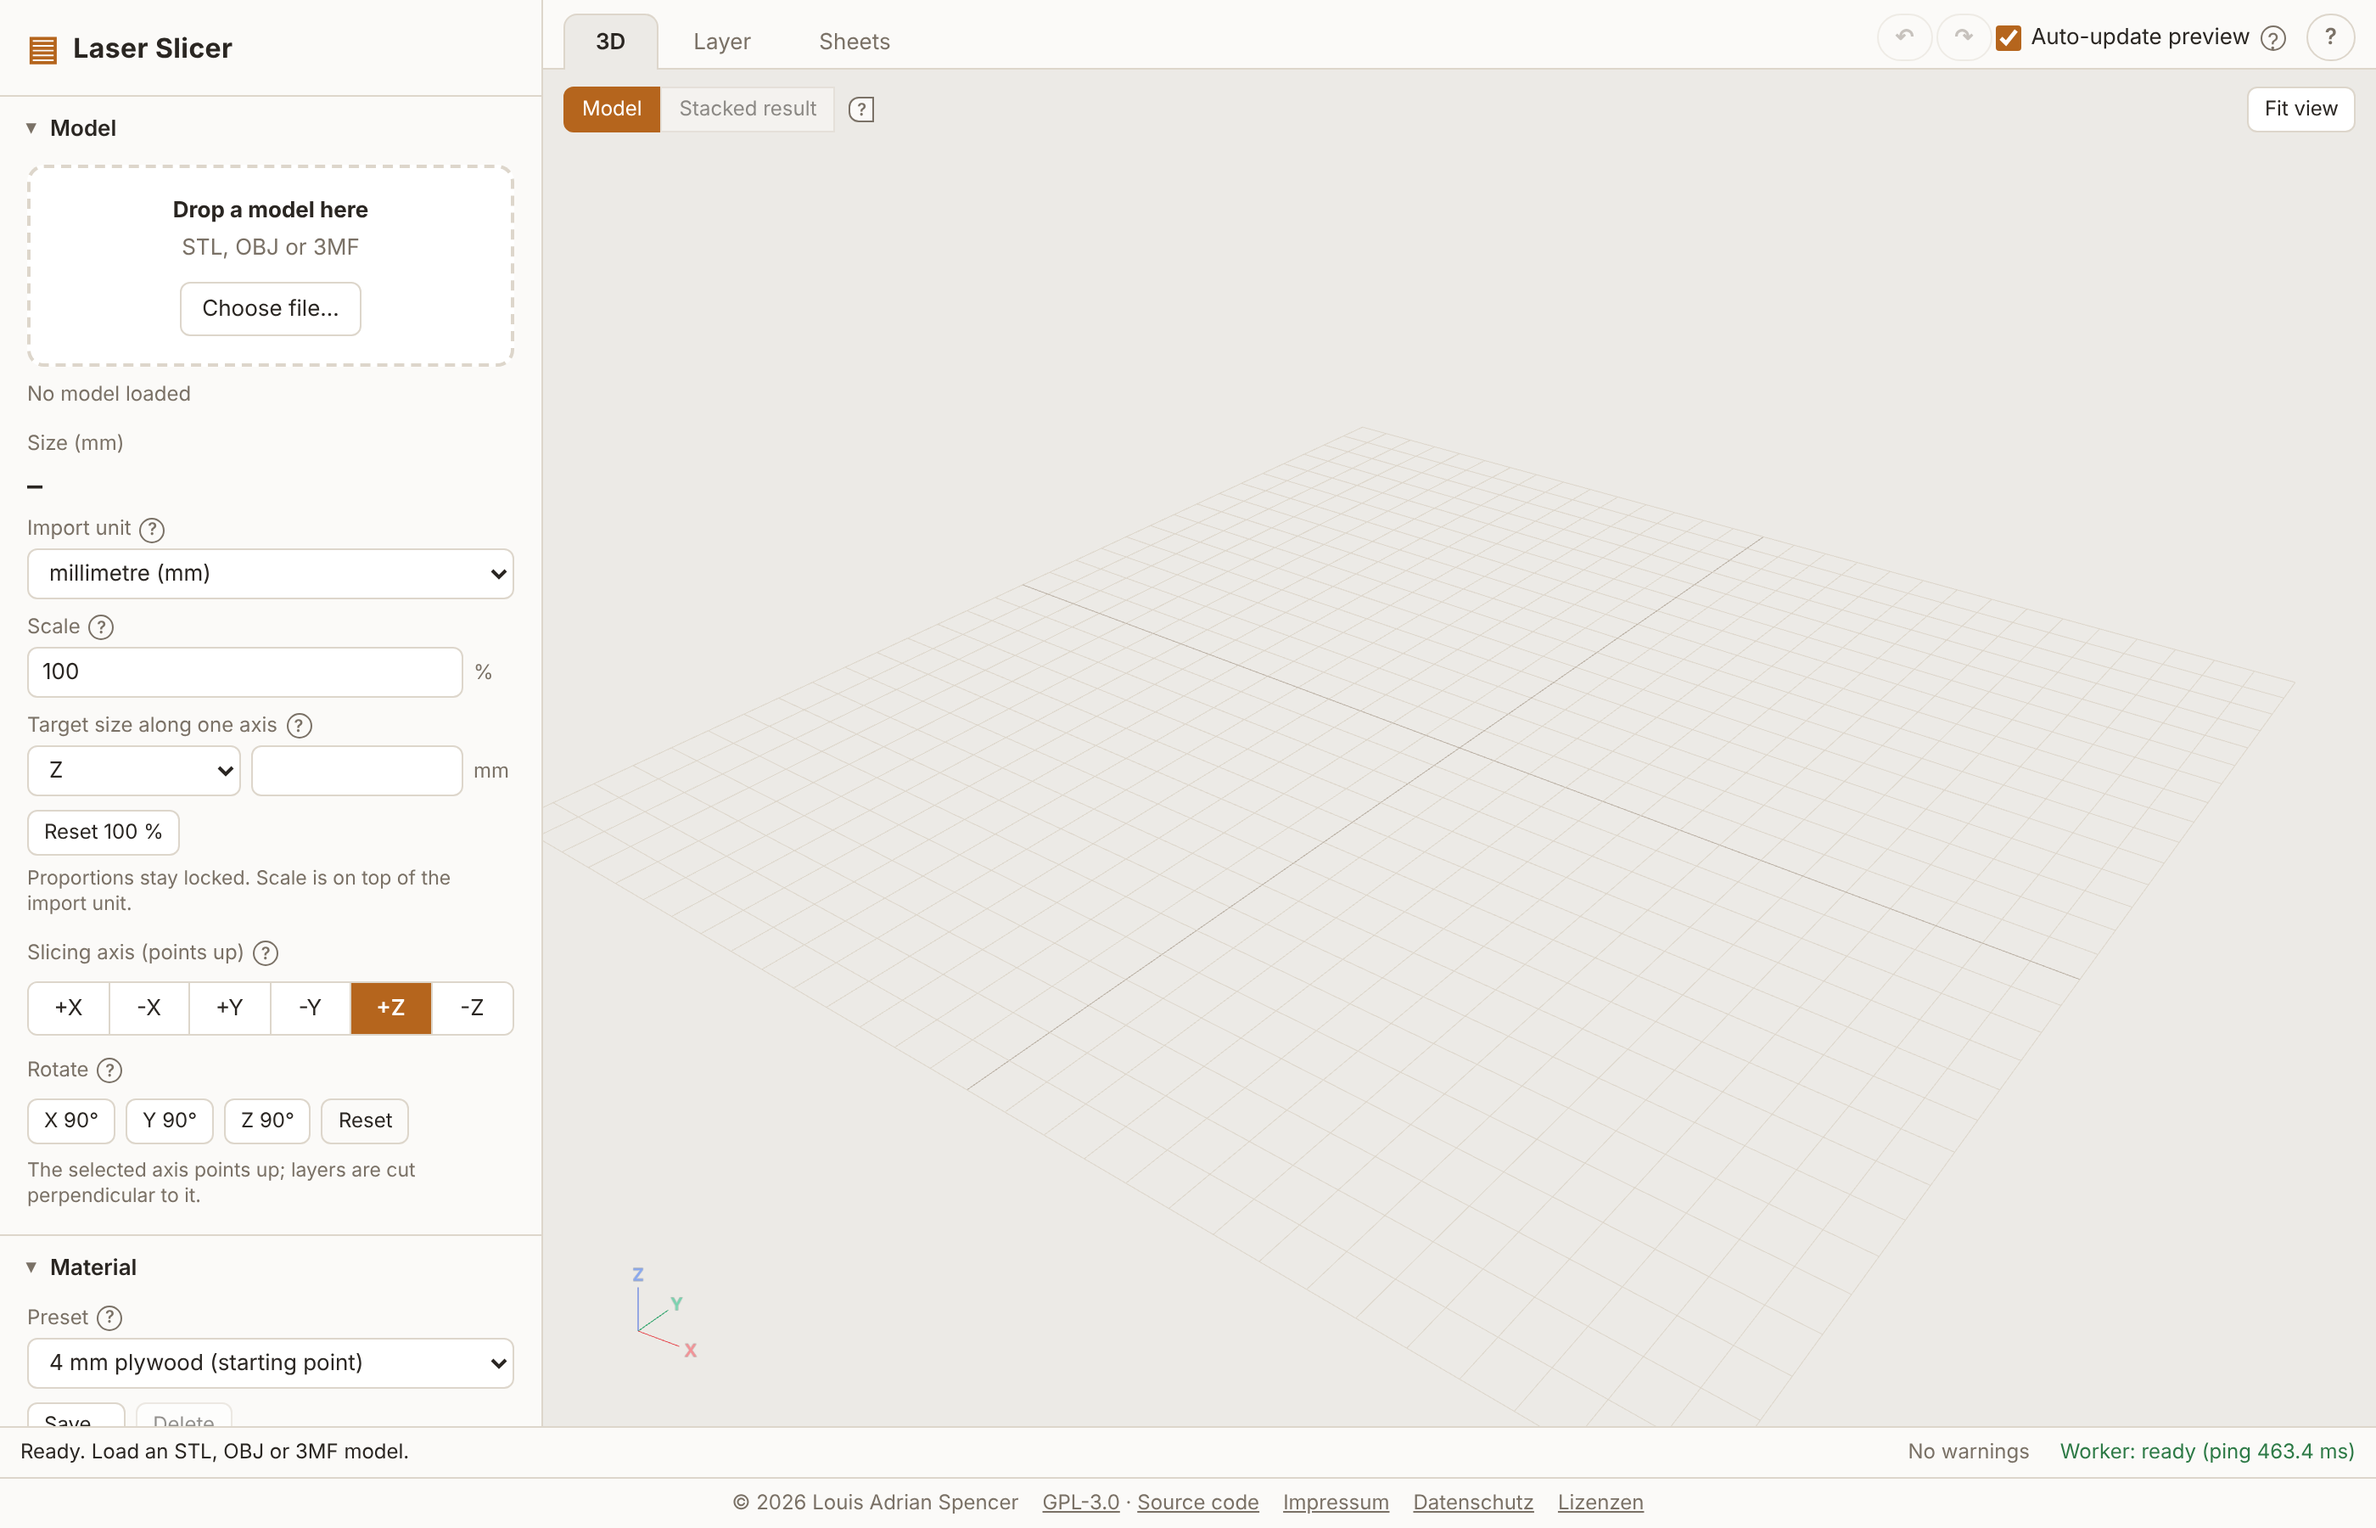
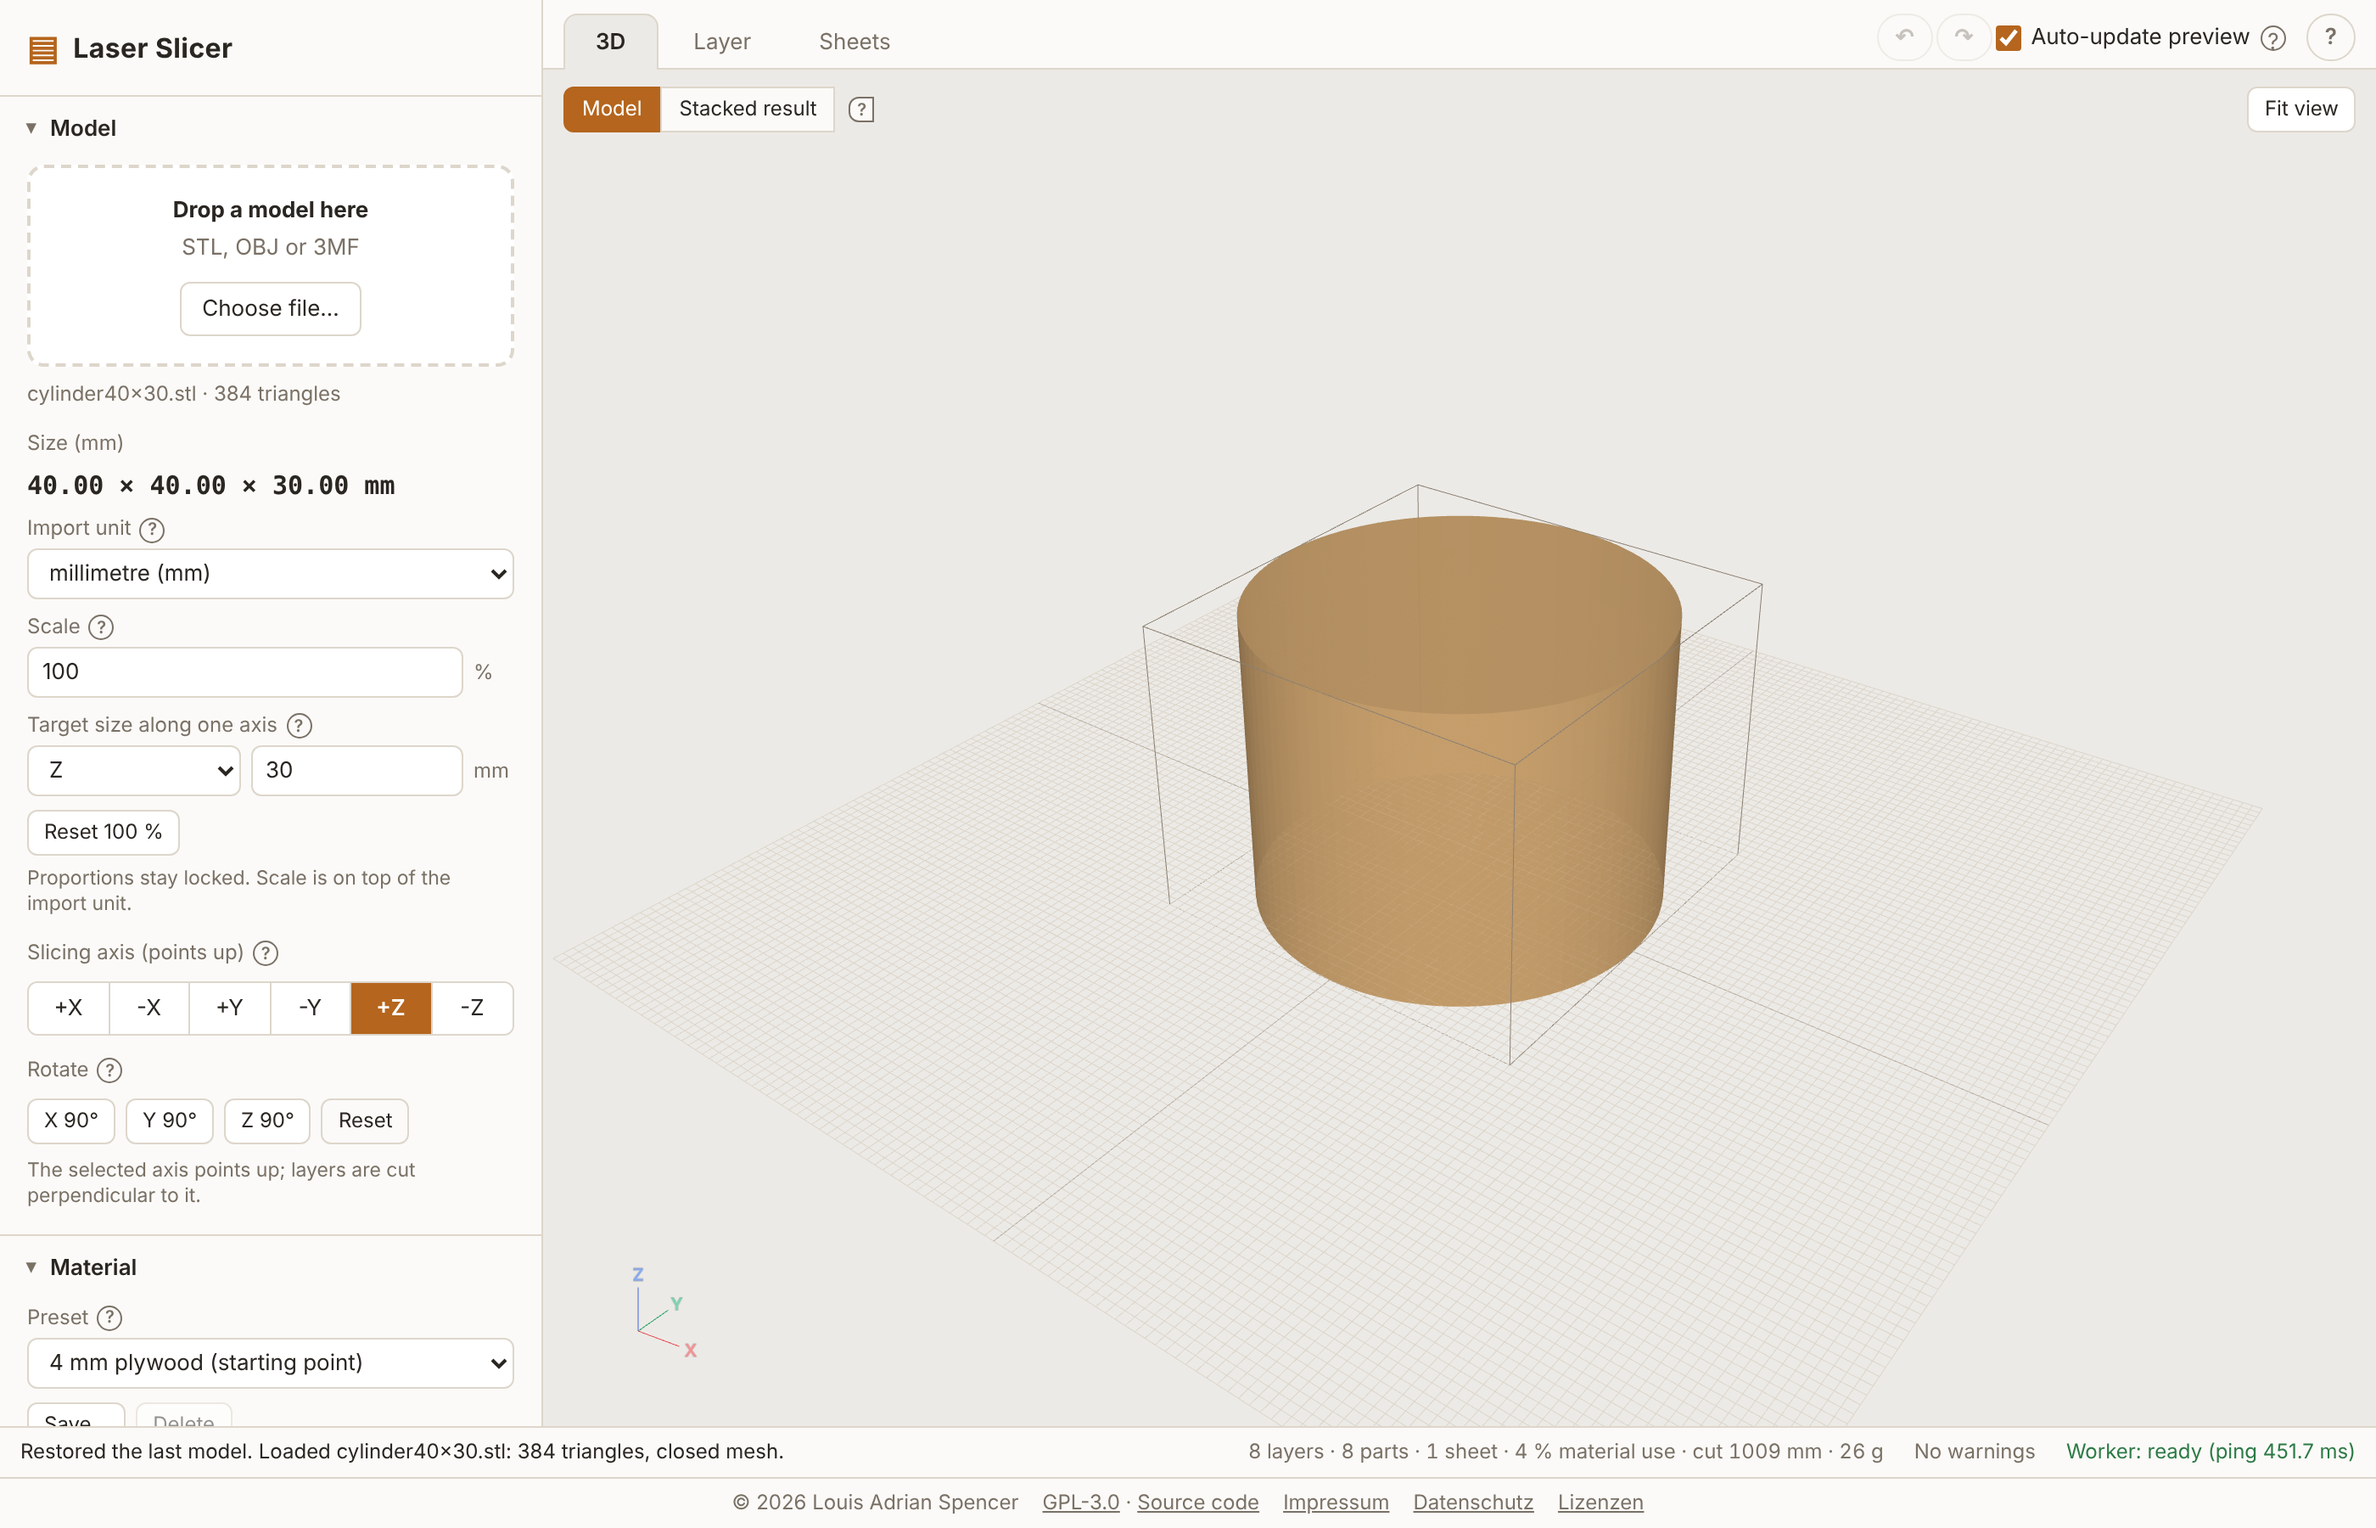
Browser test protocol: results of T13-T15, T20 (work in progress)
Claude-Session: https://claude.ai/code/session_017Scz43f7zpLviQc6tjReGF

diff --git a/docs/test-protocol/results/T20.md b/docs/test-protocol/results/T20.md
@@ -1,0 +1,16 @@
+## T20 — Legal pages + network
+**Verdict:** PASS
+**Model:** cube20.stl (for the app session)   **Settings:** defaults; `dist/` served by a small Node http server on 127.0.0.1
+**Steps:**
+1. Opened the app over http, loaded the cube, visited 3D / Layer / Sheets tabs, read the footer, clicked Impressum, Datenschutz and Lizenzen (each opens a new tab). The context recorded every request (`context.on('request')`).
+2. Opened the three legal pages in an iPhone 13 context (390 x 664 CSS px) with `javaScriptEnabled: false`; measured horizontal overflow.
+3. Repeated the overflow check in a plain 390 px wide Chromium window with JS.
+**Expected:** footer with © 2026 Louis Adrian Spencer, GPL-3.0, Source code, Impressum, Datenschutz, Lizenzen; pages render without JS, no horizontal scroll at 390 px; zero third-party requests.
+**Actual:**
+- Footer text: `© 2026 Louis Adrian Spencer | GPL-3.0 · Source code | Impressum | Datenschutz | Lizenzen`. Hrefs: GPL-3.0 -> lizenzen.html, Source code -> https://github.com/DrKlenkk/LaserSlicer (new tab, noopener), the three legal pages as relative links with target `_blank`. The footer is visible below the status bar, also with a model loaded.
+- Each page opens and has content: Impressum (292 chars of text, provider and contact), Datenschutzerklärung (7474 chars), Lizenzen (2020 chars).
+- No-JS iPhone: all three pages render (h1 and text present), `scrollWidth` = `innerWidth` = 390, no element extends past the viewport. Same at 390 px with JS.
+- Requests during the whole app session: 5, all same-origin: `index.html`, one `blob:` (the Web Worker) and the three legal pages. Zero third-party requests (the file has no CDN, font, analytics or favicon request). The no-JS session requested only the three pages.
+**Evidence:** [request log](../T20/requests.txt), ![Footer](../T20/app_footer.png), ![Impressum phone no-JS](../T20/impressum_iphone_nojs.png), ![Datenschutz](../T20/datenschutz_iphone_nojs.png), ![Lizenzen](../T20/lizenzen_iphone_nojs.png)
+**Console:** no errors; 4 "GPU stall" notices (noise).
+**Notes / deviations:** the main app itself at a 390 px viewport has a horizontal scroll width of 544 px (page `scrollWidth` 544 > 390). The plan only requires the legal pages to fit at 390 px, so this is not counted against T20, but the app is not phone-friendly. The privacy text mentions Cloudflare (a link inside the text, not a request made by the app). The ZIP export was not repeated in the network recording; the app code showed no network use on that path and the recorded session shows nothing but its own files.

diff --git a/docs/test-protocol/results/T15.md b/docs/test-protocol/results/T15.md
@@ -1,0 +1,29 @@
+## T15 — Undo/redo + presets
+**Verdict:** PASS
+**Model:** cube20.stl   **Settings:** kerf and thickness edits, user preset "MyPly" (thickness 3.2, kerf 0.18, spacing 2, price 9)
+**Steps:**
+1. Loaded the cube. Set kerf 0.2, kerf 0.3, thickness 3.5 (each edit separated by more than 1.3 s). Ctrl+Z twice, Ctrl+Y, Ctrl+Shift+Z, then the undo button three times and the redo button three times.
+2. Set my values, clicked "Save…" (prompt answered "MyPly"), changed kerf 0.1 / thickness 6 / price 20, picked "MyPly" in the list, pressed the undo button once, redo once.
+3. Applied a starter preset ("3 mm plywood") and Ctrl+Z.
+4. Reloaded the page, checked the list and settings, changed kerf, applied "MyPly" again.
+**Expected:** each change one undo step; preset applies Material values in one step; preset survives a reload.
+**Actual:**
+| Action | kerf / thickness |
+|---|---|
+| start | 0.15 / 4 (undo and redo buttons disabled) |
+| after edits | 0.3 / 3.5 |
+| Ctrl+Z | 0.3 / 4 (thickness step only) |
+| Ctrl+Z | 0.2 / 4 |
+| Ctrl+Y | 0.3 / 4 |
+| Ctrl+Shift+Z | 0.3 / 3.5, redo button disabled |
+| undo button x3 | 0.3/4, 0.2/4, 0.15/4 (undo disabled at the start state) |
+| redo button x3 | 0.2/4, then 0.3/3.5 |
+| apply "MyPly" | thickness 3.2, kerf 0.18, spacing 2, price 9 in one step; note: `Applied "MyPly".` |
+| one undo | kerf 0.1, thickness 6, price 20 (all three restored at once) |
+| one redo | all preset values again, list shows MyPly |
+| starter preset + Ctrl+Z | values exactly as before |
+| after reload | list holds the 3 starting points + "MyPly"; current settings kept; applying MyPly after changing kerf to 0.05 restores kerf 0.18 / thickness 3.2 |
+Save note: `Saved the preset "MyPly".` The preset list selection follows the current values (empty when no preset matches).
+**Evidence:** ![Panel with preset](../T15/panel_preset.png)
+**Console:** no errors; one expected `prompt` dialog (name for the preset); 4 "GPU stall" notices (noise).
+**Notes / deviations:** edits to the same setting less than 1 s apart merge into one undo step (documented in `src/history.ts` as a design rule; in my first harness run, kerf 0.2 then 0.3 within a second undid in one step, 0.3 straight to 0.15). With normal pacing each change is its own step. The default cut and engrave speeds are 0, so the preset test did not vary them.

diff --git a/docs/test-protocol/results/T14.md b/docs/test-protocol/results/T14.md
@@ -1,0 +1,22 @@
+## T14 — Session restore (opt-in)
+**Verdict:** PASS
+**Model:** cylinder40x30.stl   **Settings:** defaults; "Restore the last model when the page opens" off, then on
+**Steps:** (one persistent Chromium profile, `launchPersistentContext`)
+1. Opened the app: checkbox is unticked. Loaded the cylinder (8 layers, 8 parts, 1 sheet). Looked at IndexedDB (`indexedDB.databases()`), reloaded, looked again.
+2. Ticked the checkbox, loaded the cylinder again, checked IndexedDB, reloaded.
+3. Closed the whole browser, opened a new one on the same profile, opened the app.
+4. Unticked the checkbox, checked IndexedDB, reloaded.
+**Expected:** off: nothing restored, no IndexedDB record; on: model comes back after reload with a status note.
+**Actual:**
+| Moment | Observation |
+|---|---|
+| Default | checkbox off |
+| Off, model loaded | `indexedDB.databases()` = `[]` (no `laserslicer.session` database at all) |
+| Off, after reload | status "Ready. Load an STL, OBJ or 3MF model.", no model, no summary, still no database |
+| On, model loaded | database `laserslicer.session` with 1 record in store `session` |
+| On, after reload | status "Restored the last model. Loaded cylinder40x30.stl: 384 triangles, closed mesh."; summary "8 layers · 8 parts · 1 sheet · 4 % material use · cut 1009 mm · 26 g"; checkbox still on |
+| On, after full browser restart | same restore and status |
+| Switched off again | record count 0; after reload: nothing restored, checkbox off |
+**Evidence:** ![Off after reload](../T14/off_after_reload.png), ![On after reload](../T14/on_after_reload.png)
+**Console:** no errors; 8 "GPU stall" notices (noise).
+**Notes / deviations:** my first run showed no restore, but that was caused by my own probe: it called `indexedDB.open('laserslicer.session')` on a database that did not exist yet, which created it empty (no object store) and so blocked the app's own creation. The probe was changed to check `indexedDB.databases()` first and the run above is the valid one. Not an app defect (a test artefact only).

diff --git a/docs/test-protocol/results/T13.md b/docs/test-protocol/results/T13.md
@@ -1,0 +1,22 @@
+## T13 — Project file with model
+**Verdict:** PASS
+**Model:** cube20.stl   **Settings:** kerf 0.25 (else defaults), "Include the model in the project file" ticked
+**Steps:**
+1. Fresh context, loaded cube20.stl (5 layers, 5 parts, 1 sheet), set kerf 0.25, ticked "Include the model", clicked Project > Save.
+2. Inspected the downloaded JSON.
+3. Opened a second fresh context (kerf field shows 0.15), loaded the JSON through the project file input.
+4. Made a copy with 9 invalid base64 characters (`!!!@@@###`) inserted into `model.data`; loaded it in the context from step 3 (model + kerf 0.25 present).
+5. Also tried a copy with `model.data` cut to 30 characters.
+**Expected:** file is version 2 with model; fresh context gets model + kerf 0.25; corrupt file gives one clear error and keeps the current model.
+**Actual:**
+| Check | Result |
+|---|---|
+| `format` / `version` | `laser-slicer-project` / 2 |
+| `model` | `{name: "cube20.stl", data: <912 chars base64>}`, `settings.kerf` = 0.25 |
+| Status after save | "Saved laser-slicer-project.json with the model cube20.stl" |
+| Fresh context after load | kerf field 0.25 (was 0.15), size 20.00 x 20.00 x 20.00 mm, "cube20.stl · 12 triangles", summary "5 layers · 5 parts · 1 sheet · … cut 405 mm" (= 20 x 4 x 20.25, kerf applied); status "Loaded cube20.stl: 12 triangles, closed mesh."; project note "Loaded cube20.stl and the settings from project_with_model.json" |
+| Corrupt base64 | one message, in the status bar and the Project note: "The model stored in this project file is damaged; nothing was loaded". Model still "cube20.stl · 12 triangles", kerf still 0.25, summary unchanged |
+| Truncated base64 | same single message, state unchanged |
+**Evidence:** [project file](../T13/project_with_model.json), [corrupt copy](../T13/project_corrupt.json), ![Fresh context](../T13/fresh_context_loaded.png), ![Corrupt error](../T13/corrupt_error.png)
+**Console:** no errors, no page errors; 4 WebGL "GPU stall" notices (known noise).
+**Notes / deviations:** none.
